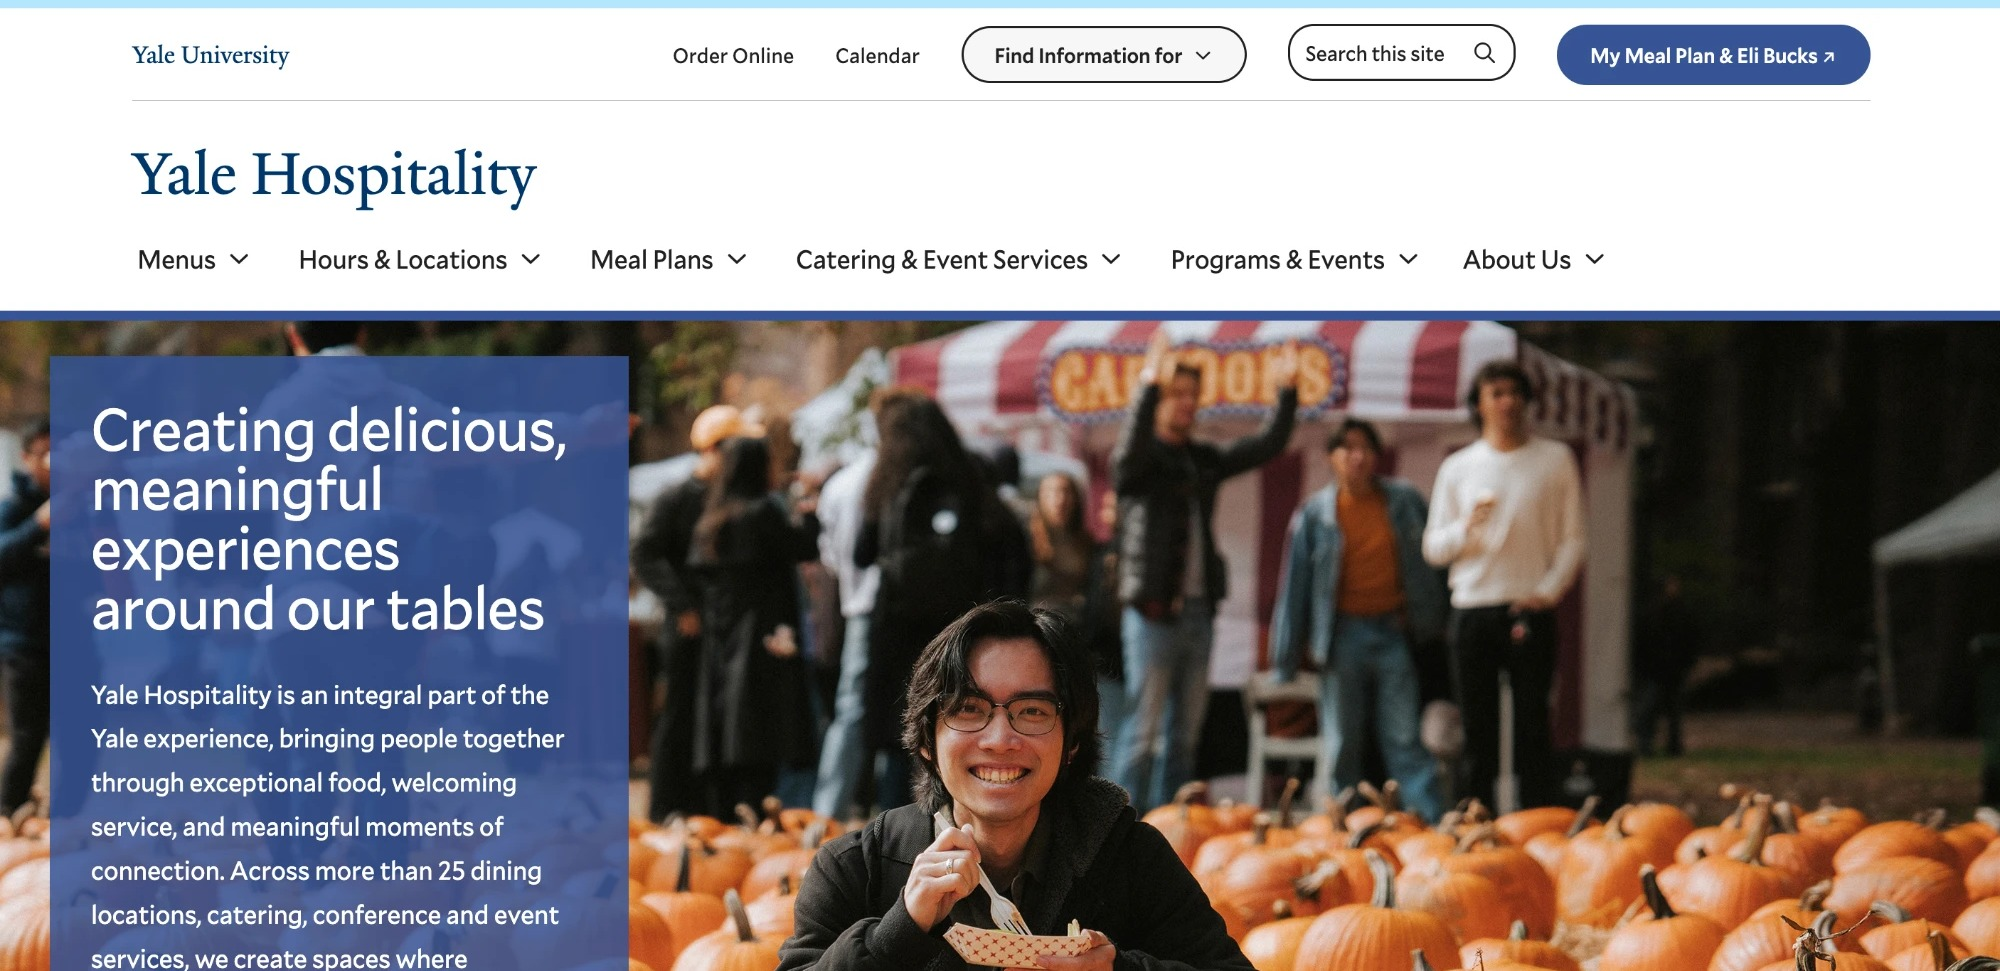
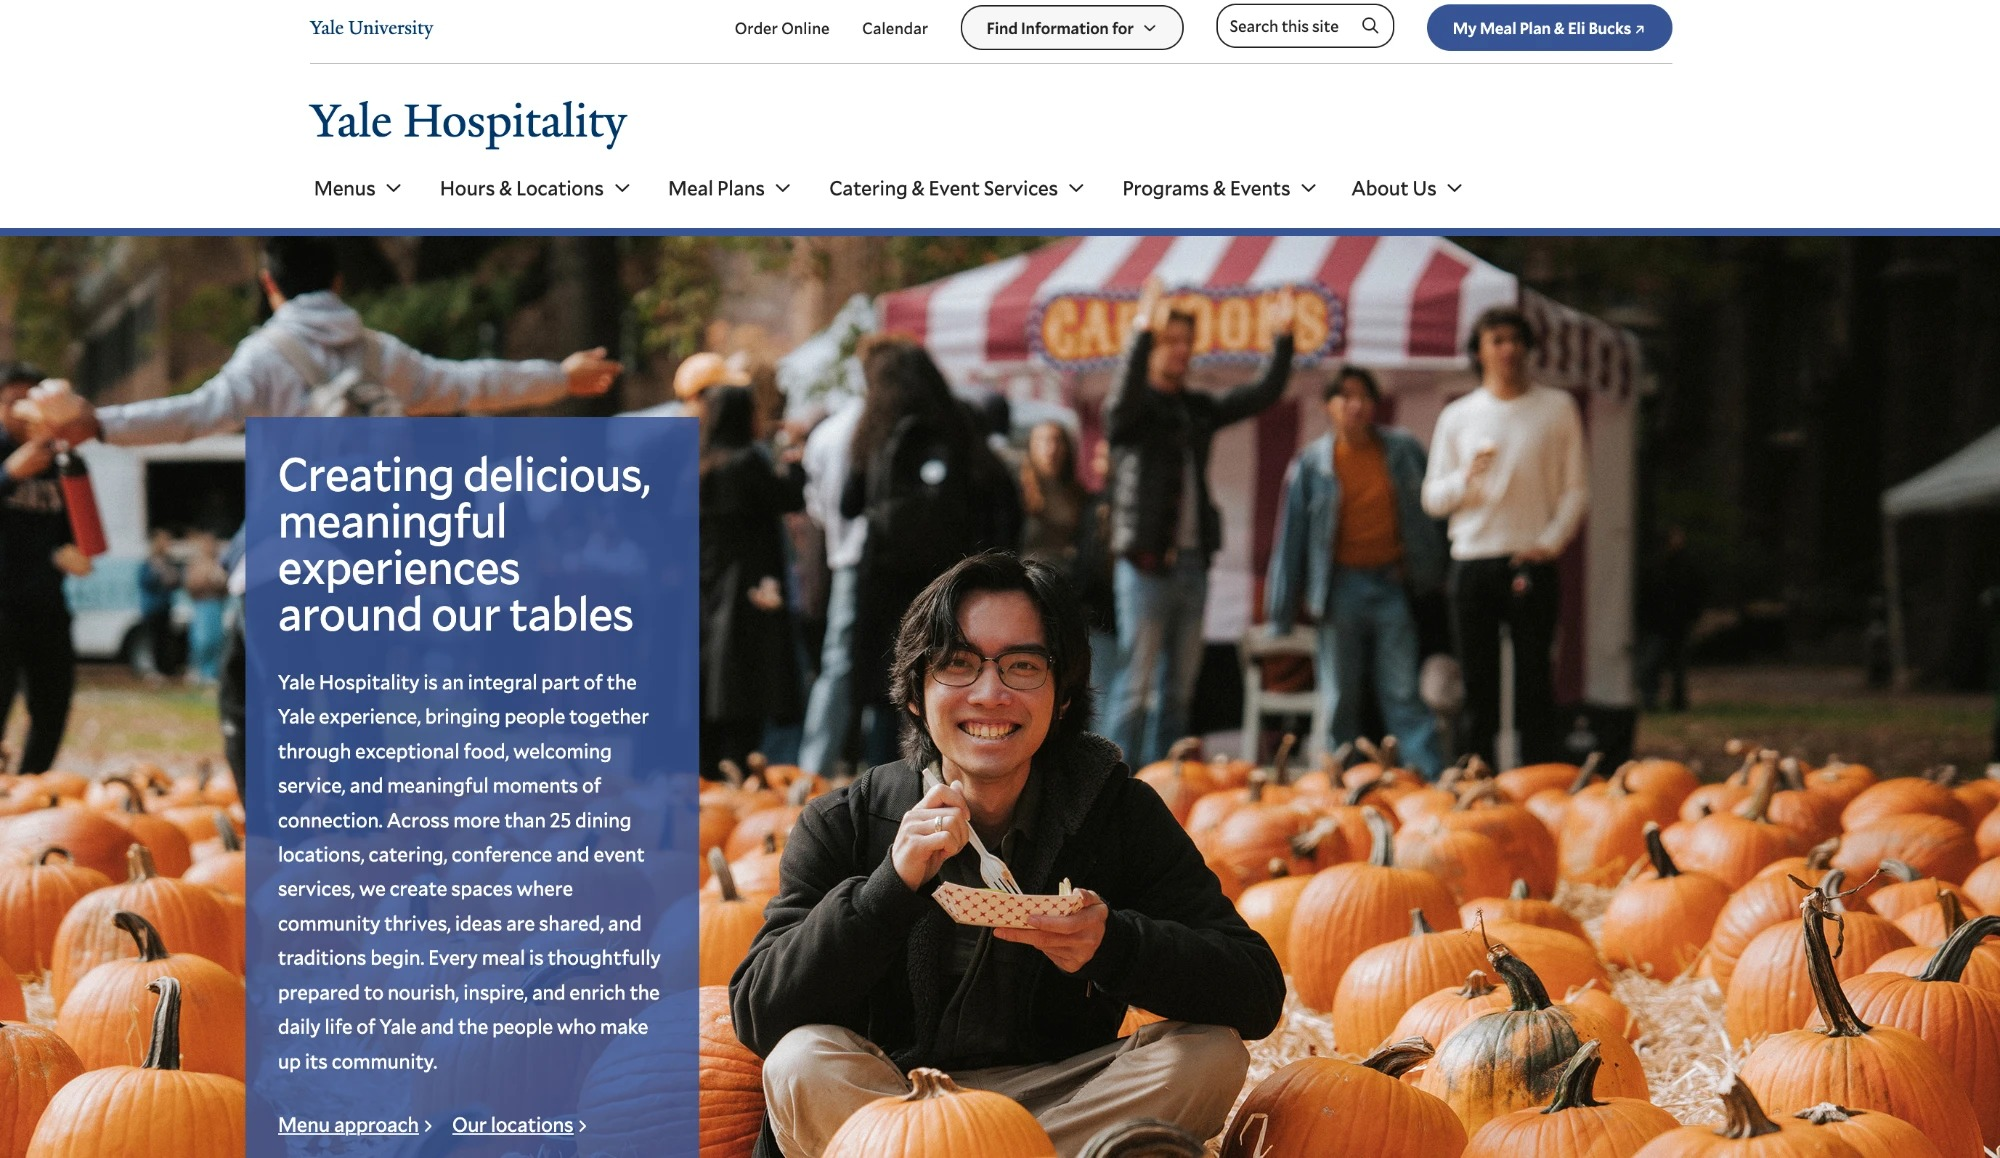
Use a full, uncropped Yale Hospitality screenshot
Replaces the cropped version with one that shows the complete hero
text and nav without cutting off any edges.

Claude-Session: https://claude.ai/code/session_01DzhhErXMvQZzoHFLiEsTgh

diff --git a/index.html b/index.html
@@ -231,7 +231,7 @@
 
         <div class="case-highlight">
           <figure class="case-media">
-            <img src="images/hospitality-launch.jpg" alt="The Yale Hospitality homepage hero banner, 'Creating delicious, meaningful experiences around our tables,' over a photo of a student at a pumpkin patch." loading="lazy" width="531" height="293">
+            <img src="images/hospitality-launch.jpg" alt="The Yale Hospitality homepage, with nav and the 'Creating delicious, meaningful experiences around our tables' hero banner over a photo of a student at a pumpkin patch." loading="lazy" width="2000" height="1158">
             <figcaption>Source: Yale Hospitality</figcaption>
           </figure>
 
